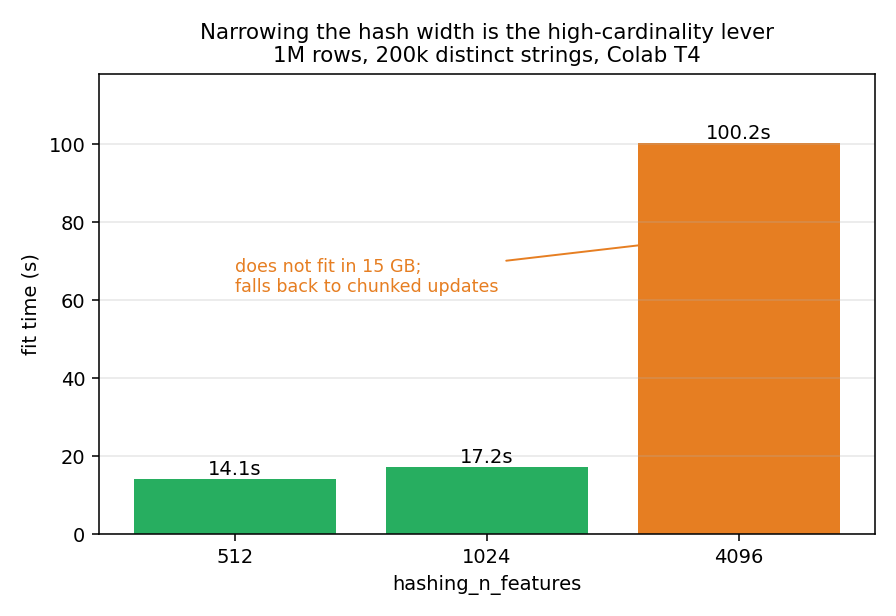
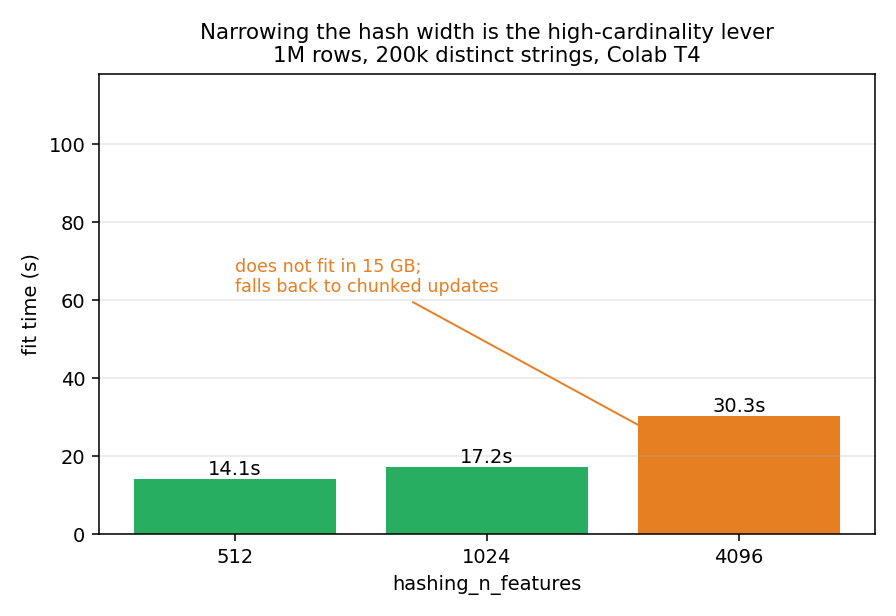
Update benchmark figures with unique-axis chunking results
fit 200k: 100.2s → 30.3s
fit 400k: OOM → 56.0s
transform 100k @ 200k unique: ~400s → 7.7s

diff --git a/examples/plot_measurements.py b/examples/plot_measurements.py
@@ -28,14 +28,19 @@ ROWS_BEFORE = [0.3, 1.3, 6.0, OOM]
 ROWS_AFTER = [0.3, 1.2, 6.7, 16.8]
 
 # Distinct strings, at 1M rows. The dense Ht @ W term is n_unique x vocab.
-CARD = [1_000, 10_000, 50_000, 200_000]
-CARD_BEFORE = [2.1, 3.2, 9.5, OOM]          # whole-matrix updates only
-CARD_AFTER = [2.1, 3.2, 8.0, 100.2]         # chunked, vectorised kernels
+# After-fix measurements use the unique-axis chunking + OOM recovery.
+CARD = [1_000, 10_000, 50_000, 200_000, 400_000]
+CARD_BEFORE = [2.1, 3.2, 9.5, OOM, OOM]     # whole-matrix updates only
+CARD_AFTER = [2.1, 3.2, 8.1, 30.3, 56.0]    # chunked unique-axis, vectorised
 
-# Hash width at 200k distinct, 1M rows. 4096 does not fit and falls back to
-# chunking, which finished in 100.2s once the chunk loop was vectorised.
+# Transform times at 100k rows (after the transform speedup)
+TRANSFORM_100K = [None, None, 4.8, 7.7, 9.1]  # s, for 50k/200k/400k unique
+
+# Hash width at 200k distinct, 1M rows. At 4096 the dense term is ~19.5 GB,
+# beyond the T4's 15 GB, so chunking kicks in. With unique-axis chunking this
+# is now 30.3s instead of 100.2s with row-axis chunking.
 WIDTH = [512, 1024, 4096]
-WIDTH_FIT = [14.1, 17.2, 100.2]
+WIDTH_FIT = [14.1, 17.2, 30.3]
 
 
 def _plot_pair(ax, x, before, after, xlabel, title):
